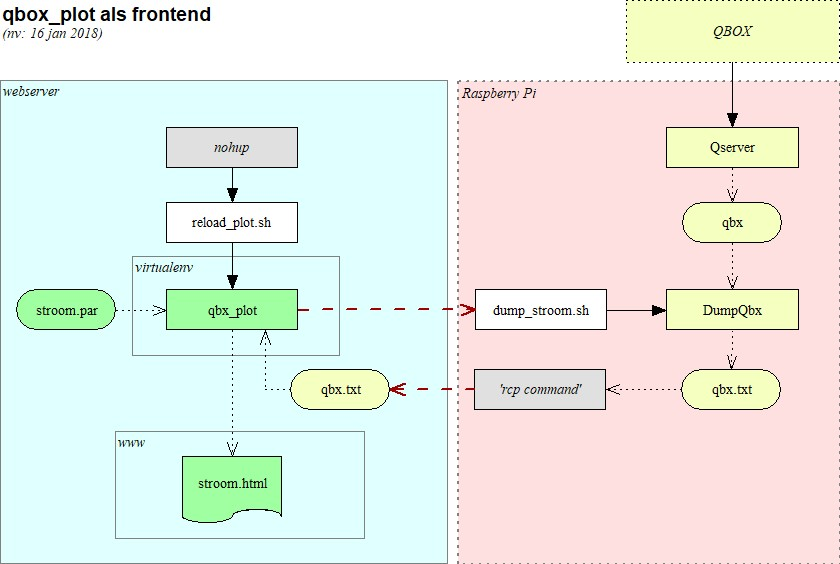
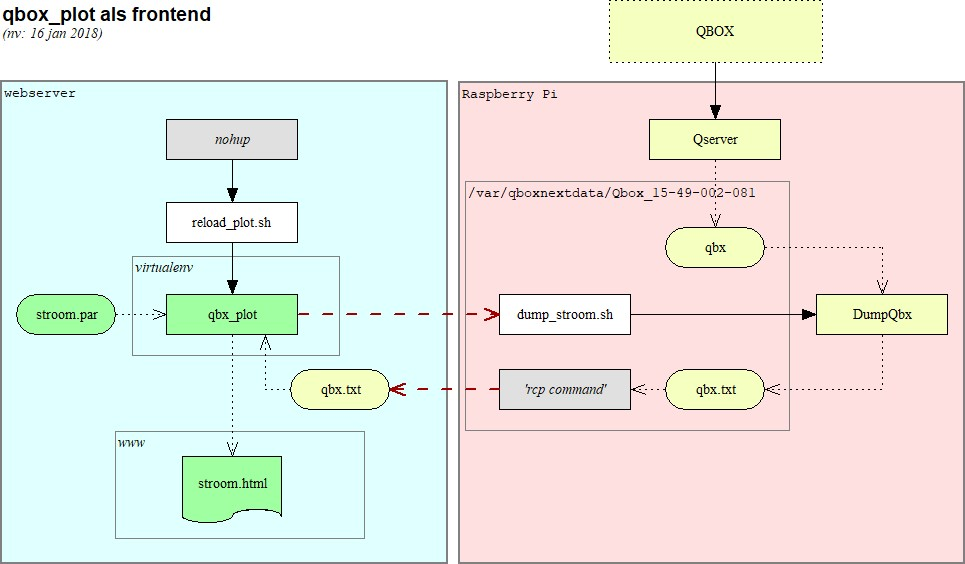
updating manual with remote functionality

diff --git a/README.md b/README.md
@@ -76,17 +76,48 @@ parameter file: `2018_dec_stroom_per_dag.par`
 
   `qbox_plot --parfile 2018_dec_stroom_per_dag.par`
 
-### Geavanceerd gebruik.
-Het is mogelijk om qbox_plot zijn data files van een andere computer te kopieren. 
-En het is mogelijk om zowel voor als na die kopieerslag een extern commando uit te voeren.
+## Geavanceerd gebruik.
+Het is mogelijk om qbox_plot zijn data files van een andere computer te laten lezen, 
+bij voorkeur van de Raspberry Pi waar ze gecreeerd worden. 
+En het is mogelijk om zowel voor als na de dataverwerking een extern commando uit te voeren, 
+bijvoorbeeld een scp commando om die data files te kopieren.
 
 Dit maakt het mogelijk om 'qbox_plot' op een webserver te draaien, 
-waarbij hij eerst de 'QServer' op de Raspberry Pi opdracht geeft om zijn data te exporteren naar de gewenste txt bestanden 
+waarbij hij eerst de QboxNext software de Raspberry Pi opdracht geeft om de data te exporteren naar de gewenste txt bestanden 
 alvorens ze te downloaden en te visualiseren.
 
-Schematisch ziet dat er zo uit:
+Dit gaat het vanuit dat de Qserver en DumpQbx applicaties al zijn geinstalleerd op de Raspberry Pi.
 
 <p align="center">
   <img src="https://github.com/nvermaas/qbox_plot/blob/master/images/qbox_plot_as_frontend.jpg"/>
 </p>
 
+'dump_stroom.sh' is een shell script dat de DumpQbx applicatie start voor elk 'kanaal' zodat de txt bestanden worden gegenereerd.
+Dit script kan met de hand worden uitgevoerd, maar ook automatisch door 'qbox_plot' met het commando dat met de '--remote_pre_command' wordt meegegeven. (zie de parameter file)
+
+'dump_stroom.sh':
+```
+cd /var/qboxnextdata/Qbox_15-49-002-081 
+./dumpqbx --qbx=/var/qboxnextdata/Qbox_15-49-002-081/15-49-002-081_00000181.qbx --values > 181.txt
+./dumpqbx --qbx=/var/qboxnextdata/Qbox_15-49-002-081/15-49-002-081_00000182.qbx --values > 182.txt
+./dumpqbx --qbx=/var/qboxnextdata/Qbox_15-49-002-081/15-49-002-081_00000281.qbx --values > 281.txt
+./dumpqbx --qbx=/var/qboxnextdata/Qbox_15-49-002-081/15-49-002-081_00000282.qbx --values > 282.txt
+```
+
+`stroom.par` (parameter file)
+```
+--filename=181.txt
+--consumption_files=181.txt,182.txt
+--redelivery_files=281.txt,282.txt
+--remote_host=pi@192.168.?.?
+--remote_dir=/var/qboxnextdata/Qbox_15-49-002-081
+--remote_pre_command=/var/qboxnextdata/Qbox_15-49-002-081/dump_stroom.sh
+--local_dir=data
+--legends=verbruik,teruglevering,netto
+--output_html=stroom.html
+--title=Stroom per uur - Januari 2019
+--starttime=2019-01-16 00:00
+--endtime=2019-01-17 01:00
+--interval=hour
+--y_axis_title=verbruik in Wh
+```
